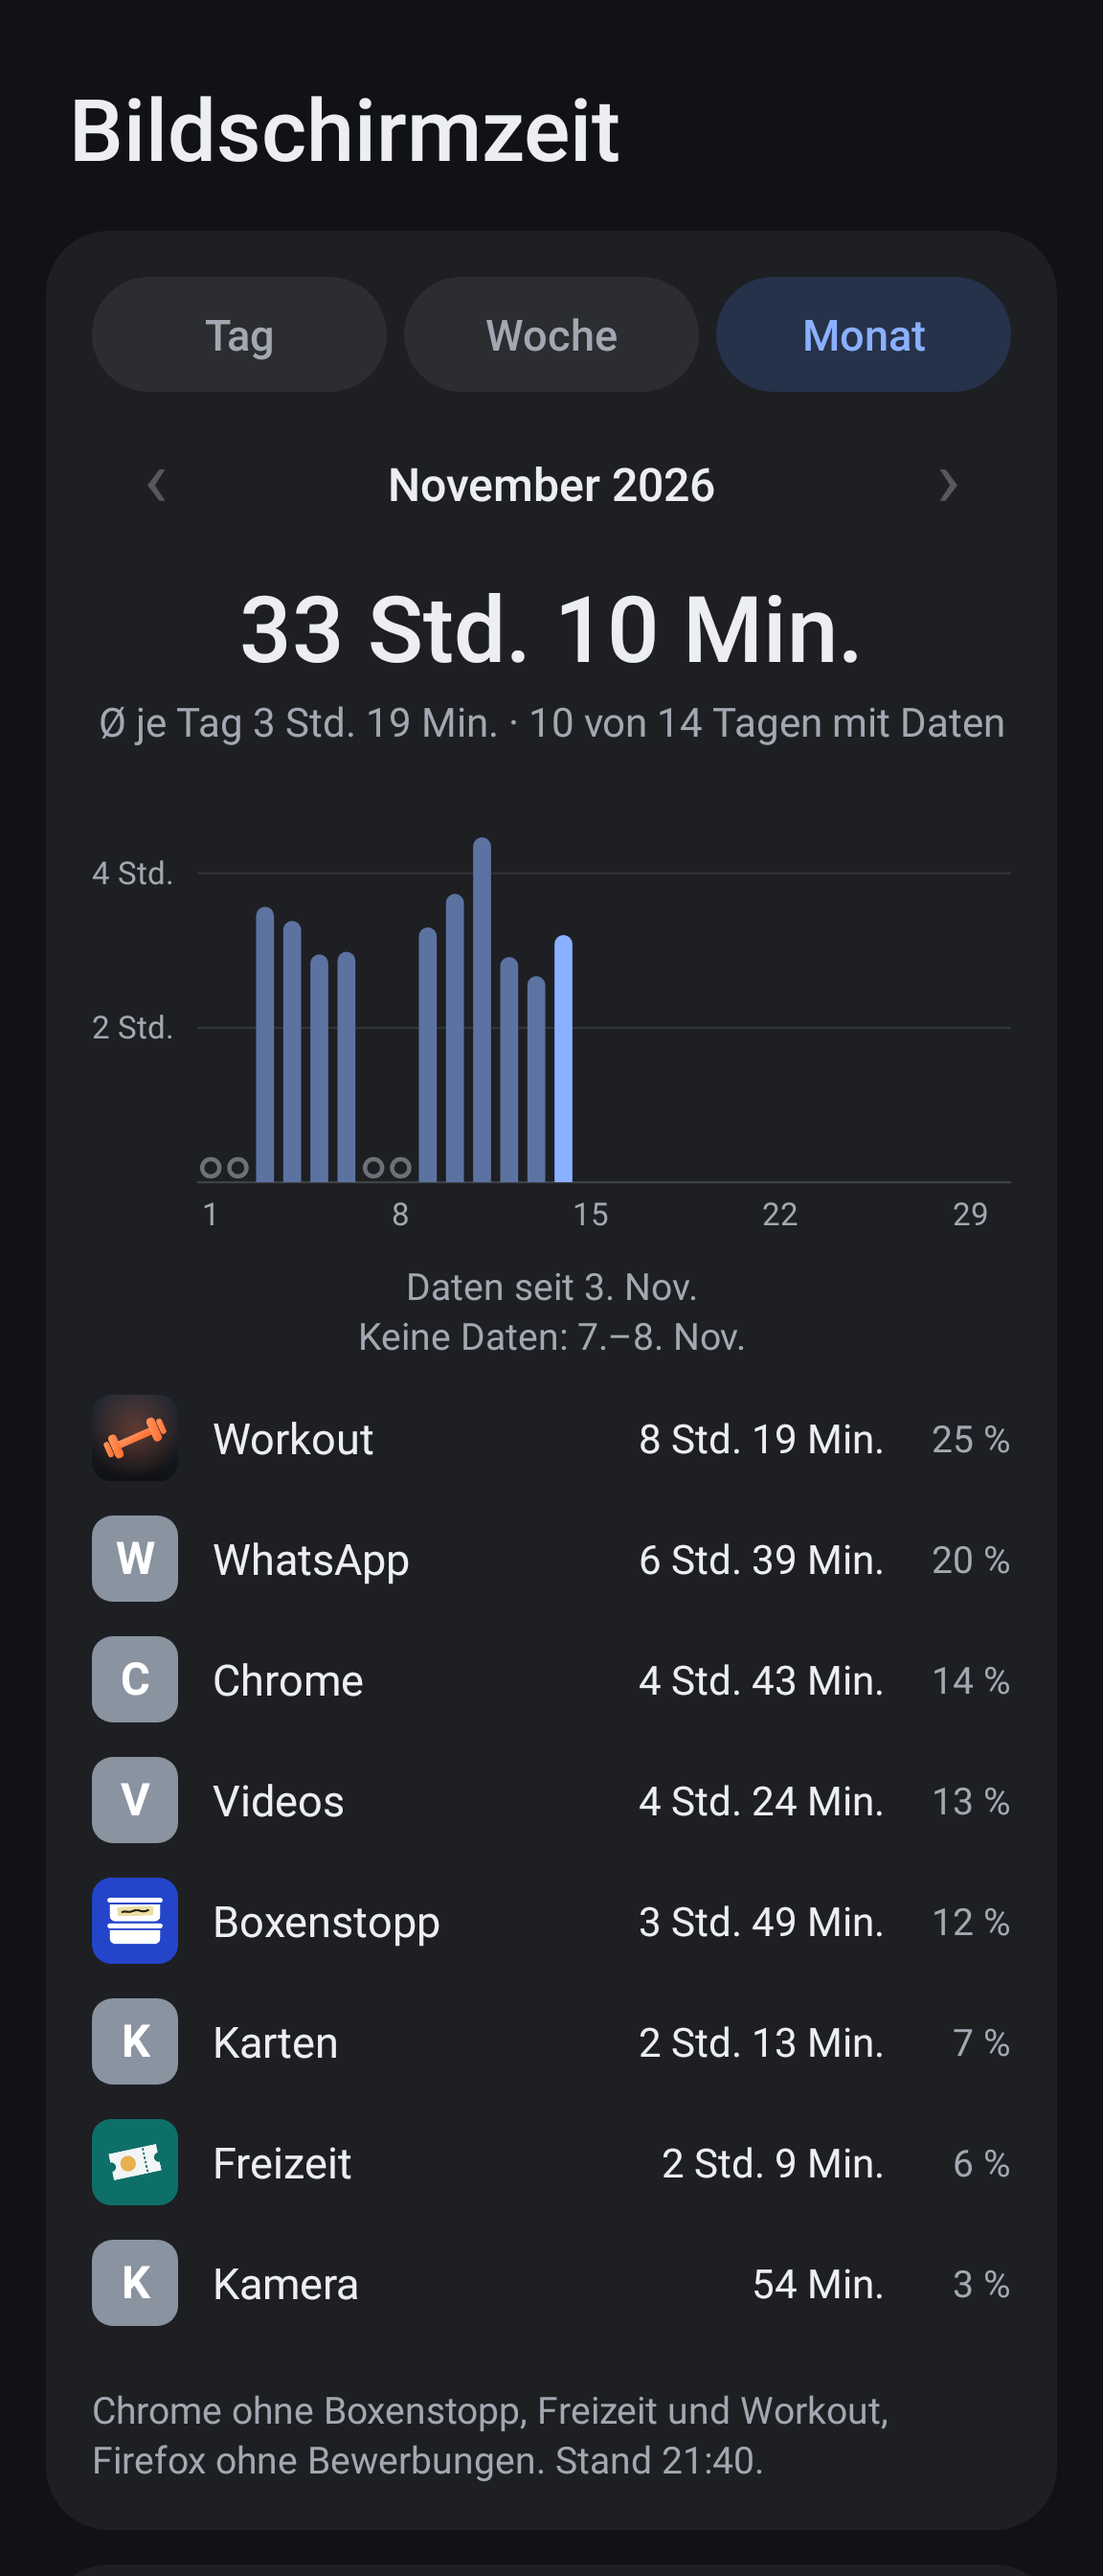
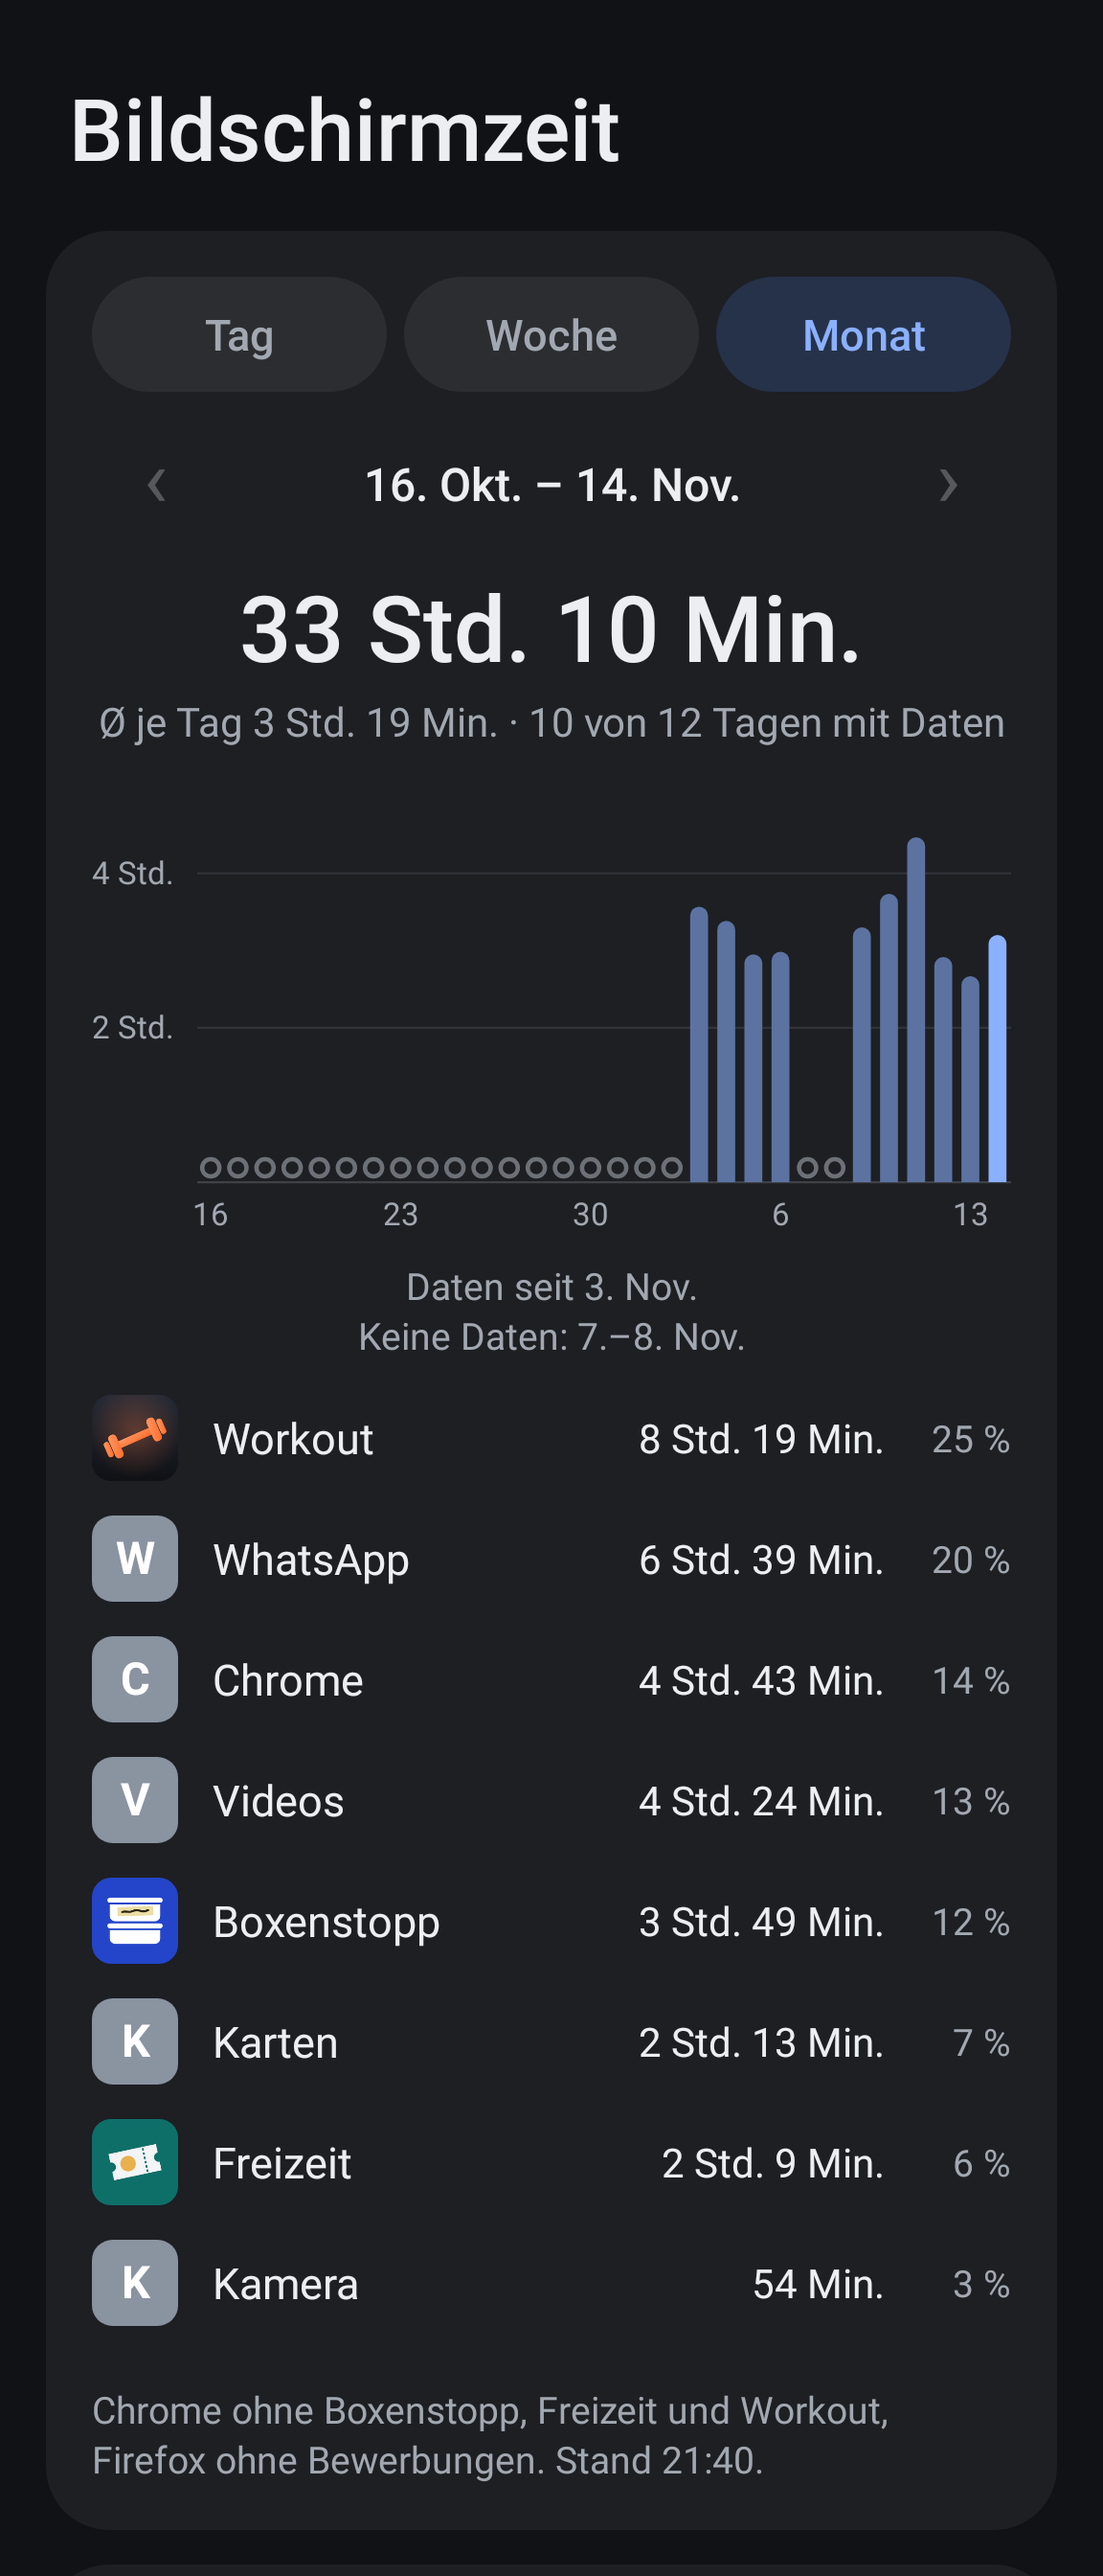
Statistik: Monat sind die letzten 30 Tage bis heute; fehlende Tage erst ab Beginn des Verlaufs
Tobi, 23.11.: „Monat genauso. Ist nicht November sondern die letzten x
tage“. Zurück springt 30 Tage, vor höchstens bis heute. „x von y Tagen mit
Daten“ zählt die Tage vor „Daten seit …“ nicht mehr als fehlend. Tests
angepasst, Monats-Bilder neu.

Claude-Session: https://claude.ai/code/session_01T7EkPJSfPQa2bVA75hcf3v

diff --git a/android/app/src/main/kotlin/de/finanzdienste/bildschirmzeit/Statistik.kt b/android/app/src/main/kotlin/de/finanzdienste/bildschirmzeit/Statistik.kt
@@ -6,16 +6,17 @@ import kotlin.math.roundToLong
 /*
  * Die Statistik der App: Tag, Woche (die letzten sieben Tage – Tobi, 23.11.:
  * „Woche bedeutet ja nicht Montag bis Sonntag sondern letzte sieben tage“),
- * Monat (der Kalendermonat) – rein,
+ * Monat (die letzten 30 Tage – „Monat genauso. Ist nicht November sondern die
+ * letzten x tage“) – rein,
  * getestet in StatistikTest. Die Zahlen kommen aus dem Verlauf (Verlauf.kt).
  * Ein Tag ohne Eintrag hat „keine Daten“ – nie 0.
  */
 
 /** Die drei Reiter oben in der App. */
-enum class Reiter(val text: String) {
-    TAG("Tag"),
-    WOCHE("Woche"),
-    MONAT("Monat"),
+enum class Reiter(val text: String, val tage: Int) {
+    TAG("Tag", 1),
+    WOCHE("Woche", 7),
+    MONAT("Monat", 30),
     ;
 
     companion object {
@@ -39,10 +40,10 @@ data class Zeitraum(val reiter: Reiter, val von: LocalDate, val bis: LocalDate) 
 
     fun vorher(): Zeitraum = um(reiter, von.minusDays(1))
 
-    /** Der nächste Zeitraum; eine Woche endet dabei höchstens `heute` (dann sind es wieder die letzten sieben Tage). */
+    /** Der nächste Zeitraum; Woche und Monat enden dabei höchstens `heute` (dann sind es wieder die letzten 7 bzw. 30 Tage). */
     fun nachher(heute: LocalDate? = null): Zeitraum = when (reiter) {
-        Reiter.WOCHE -> um(reiter, bis.plusDays(7).let { if (heute != null && it > heute) heute else it })
-        else -> um(reiter, bis.plusDays(1))
+        Reiter.TAG -> um(reiter, bis.plusDays(1))
+        else -> um(reiter, bis.plusDays(reiter.tage.toLong()).let { if (heute != null && it > heute) heute else it })
     }
 
     /** › gibt es, solange der nächste Zeitraum nicht nach heute beginnt. */
@@ -54,19 +55,11 @@ data class Zeitraum(val reiter: Reiter, val von: LocalDate, val bis: LocalDate) 
     fun enthaelt(tag: LocalDate): Boolean = tag in von..bis
 
     companion object {
-        /** Der Zeitraum dieses Reiters, der mit `tag` endet (Woche: `tag` und die sechs Tage davor) bzw. in dem `tag` liegt (Monat). */
-        fun um(reiter: Reiter, tag: LocalDate): Zeitraum = when (reiter) {
-            Reiter.TAG -> Zeitraum(reiter, tag, tag)
-            Reiter.WOCHE -> Zeitraum(reiter, tag.minusDays(6), tag)
-            Reiter.MONAT -> {
-                val erster = tag.withDayOfMonth(1)
-                Zeitraum(reiter, erster, erster.plusMonths(1).minusDays(1))
-            }
-        }
+        /** Der Zeitraum dieses Reiters, der mit `tag` endet: der Tag, die sieben bzw. 30 Tage bis `tag`. */
+        fun um(reiter: Reiter, tag: LocalDate): Zeitraum = Zeitraum(reiter, tag.minusDays(reiter.tage - 1L), tag)
     }
 }
 
-private val MONATE = listOf("Januar", "Februar", "März", "April", "Mai", "Juni", "Juli", "August", "September", "Oktober", "November", "Dezember")
 private val MONATE_KURZ = listOf("Jan.", "Feb.", "März", "Apr.", "Mai", "Juni", "Juli", "Aug.", "Sept.", "Okt.", "Nov.", "Dez.")
 private val WOCHENTAGE = listOf("Mo.", "Di.", "Mi.", "Do.", "Fr.", "Sa.", "So.")
 
@@ -77,15 +70,14 @@ fun wochentagKurz(tag: LocalDate): String = WOCHENTAGE[tag.dayOfWeek.value - 1].
 fun datumKurz(tag: LocalDate, heute: LocalDate): String =
     "${tag.dayOfMonth}. ${MONATE_KURZ[tag.monthValue - 1]}" + if (tag.year != heute.year) " ${tag.year}" else ""
 
-/** Der Titel zwischen ‹ und ›: „Heute“, „Gestern“, „Sa., 14. Nov.“, „9.–15. Nov.“, „November 2026“. */
+/** Der Titel zwischen ‹ und ›: „Heute“, „Gestern“, „Sa., 14. Nov.“, „17.–23. Nov.“, „25. Okt. – 23. Nov.“. */
 fun zeitraumTitel(z: Zeitraum, heute: LocalDate): String = when (z.reiter) {
     Reiter.TAG -> when (z.von) {
         heute -> "Heute"
         heute.minusDays(1) -> "Gestern"
         else -> "${WOCHENTAGE[z.von.dayOfWeek.value - 1]}, ${datumKurz(z.von, heute)}"
     }
-    Reiter.WOCHE -> spanne(z.von, z.bis, heute)
-    Reiter.MONAT -> "${MONATE[z.von.monthValue - 1]} ${z.von.year}"
+    Reiter.WOCHE, Reiter.MONAT -> spanne(z.von, z.bis, heute)
 }
 
 /**
@@ -123,8 +115,8 @@ data class Auswertung(
     /** Tage mit Daten. */
     val belegt: Int get() = tage.count { it.sekunden != null }
 
-    /** Tage bis heute (die noch kommenden zählen nicht). */
-    val vergangen: Int get() = tage.count { !it.zukunft }
+    /** Tage bis heute, ab dem Beginn des Verlaufs (die noch kommenden und die davor zählen nicht – „Daten seit …“ steht darunter). */
+    val vergangen: Int get() = tage.count { !it.zukunft && (datenSeit == null || it.datum >= datenSeit) }
 
     /** Ø je Tag – nur über die Tage, für die es Daten gibt. */
     val schnitt: Long? get() = if (belegt > 0) (gesamt.toDouble() / belegt).roundToLong() else null

diff --git a/android/app/src/test/kotlin/de/finanzdienste/bildschirmzeit/AppStatistikTest.kt b/android/app/src/test/kotlin/de/finanzdienste/bildschirmzeit/AppStatistikTest.kt
@@ -128,13 +128,13 @@ class AppStatistikTest {
         a.findViewById<View>(R.id.reiter_monat).performClick()
         warten()
         assertEquals("MONAT", Speicher(kontext).reiter)
-        assertEquals("November 2026", a.text(R.id.zeitraum_titel))
+        assertEquals("16. Okt. – 14. Nov.", a.text(R.id.zeitraum_titel))
         assertEquals("Daten seit 3. Nov.\nKeine Daten: 7.–8. Nov.", a.text(R.id.luecken))
-        assertTrue(a.text(R.id.schnitt).endsWith("· 10 von 14 Tagen mit Daten"))
+        assertTrue(a.text(R.id.schnitt).endsWith("· 10 von 12 Tagen mit Daten"))
         // Zurück in den Oktober: dort keine Daten, und weiter zurück geht es nicht.
         a.findViewById<View>(R.id.zurueck).performClick()
         warten()
-        assertEquals("Oktober 2026", a.text(R.id.zeitraum_titel))
+        assertEquals("16. Sept. – 15. Okt.", a.text(R.id.zeitraum_titel))
         assertEquals("keine Daten", a.text(R.id.gesamt))
         assertFalse(a.findViewById<View>(R.id.zurueck).isEnabled)
         assertTrue(a.findViewById<View>(R.id.weiter).isEnabled)
@@ -142,11 +142,11 @@ class AppStatistikTest {
         // Das Widget öffnet die App wieder: der gemerkte Reiter, der jetzige Zeitraum.
         steuerung.newIntent(ziel(Ziel.STATISTIK))
         warten()
-        assertEquals("November 2026", a.text(R.id.zeitraum_titel))
+        assertEquals("16. Okt. – 14. Nov.", a.text(R.id.zeitraum_titel))
         // Auch eine neue App (nach dem Schließen) zeigt den Monat.
         val neu = oeffnen().get()
         assertTrue(neu.findViewById<View>(R.id.reiter_monat).isSelected)
-        assertEquals("November 2026", neu.text(R.id.zeitraum_titel))
+        assertEquals("16. Okt. – 14. Nov.", neu.text(R.id.zeitraum_titel))
     }
 
     @Test
@@ -178,7 +178,7 @@ class AppStatistikTest {
         assertEquals("1.–7. Nov.", a.text(R.id.zeitraum_titel))
         assertEquals("Daten seit 3. Nov.\nKeine Daten: 7. Nov.", a.text(R.id.luecken))
         assertEquals(dauerText(summe(3, 4, 5, 6)), a.text(R.id.gesamt))
-        assertTrue(a.text(R.id.schnitt).endsWith("· 4 von 7 Tagen mit Daten"))
+        assertTrue(a.text(R.id.schnitt).endsWith("· 4 von 5 Tagen mit Daten"))
         // Vor dem 3.11. hat der Verlauf nichts: nicht weiter zurück.
         assertFalse(a.findViewById<View>(R.id.zurueck).isEnabled)
         // Vergangene Woche: kein „Stand“ von heute darunter.
@@ -310,7 +310,7 @@ class AppStatistikTest {
         // Monat und eine Woche zurück: weiter nur Workout.
         a.findViewById<View>(R.id.reiter_monat).performClick()
         warten()
-        assertEquals("November 2026", a.text(R.id.zeitraum_titel))
+        assertEquals("16. Okt. – 14. Nov.", a.text(R.id.zeitraum_titel))
         assertEquals("Workout", a.text(R.id.app_kopf_name))
         assertEquals(dauerText(wochenSumme("workout", 3, 4, 5, 6, 9, 10, 11, 12, 13, 14)), a.text(R.id.gesamt))
         a.findViewById<View>(R.id.reiter_woche).performClick()
@@ -409,7 +409,7 @@ class AppStatistikTest {
         assertEquals("Mi., 4. Nov.", a.text(R.id.zeitraum_titel))
         obersterRueckruf(a)!!.onBackInvoked()
         warten()
-        assertEquals("November 2026", a.text(R.id.zeitraum_titel))
+        assertEquals("16. Okt. – 14. Nov.", a.text(R.id.zeitraum_titel))
         assertFalse(a.isFinishing)
     }
 

diff --git a/android/app/src/test/kotlin/de/finanzdienste/bildschirmzeit/StatistikTest.kt b/android/app/src/test/kotlin/de/finanzdienste/bildschirmzeit/StatistikTest.kt
@@ -59,14 +59,17 @@ class StatistikTest {
 
     @Test
     fun monatUndTag() {
+        // Tobi, 23.11.: „Monat genauso. Ist nicht November sondern die letzten x tage“ – die letzten 30 Tage.
         val m = Zeitraum.um(Reiter.MONAT, heute)
-        assertEquals(LocalDate.of(2026, 11, 1), m.von)
-        assertEquals(LocalDate.of(2026, 11, 30), m.bis)
-        assertEquals("November 2026", zeitraumTitel(m, heute))
-        assertEquals("Oktober 2026", zeitraumTitel(m.vorher(), heute))
-        assertEquals("Dezember 2025", zeitraumTitel(Zeitraum.um(Reiter.MONAT, LocalDate.of(2026, 1, 5)).vorher(), heute))
-        assertEquals(29, Zeitraum.um(Reiter.MONAT, LocalDate.of(2028, 2, 10)).tage.size)
-        assertEquals(31, Zeitraum.um(Reiter.MONAT, LocalDate.of(2026, 3, 29)).tage.size)
+        assertEquals(LocalDate.of(2026, 10, 17), m.von)
+        assertEquals(heute, m.bis)
+        assertEquals(30, m.tage.size)
+        assertEquals("17. Okt. – 15. Nov.", zeitraumTitel(m, heute))
+        assertEquals("17. Sept. – 16. Okt.", zeitraumTitel(m.vorher(), heute))
+        assertEquals("7. Nov. – 6. Dez. 2025", zeitraumTitel(Zeitraum.um(Reiter.MONAT, LocalDate.of(2026, 1, 5)).vorher(), heute))
+        assertEquals(30, Zeitraum.um(Reiter.MONAT, LocalDate.of(2028, 3, 10)).tage.size)
+        // Vor: höchstens bis heute – dann sind es wieder die letzten 30 Tage.
+        assertEquals(m, Zeitraum.um(Reiter.MONAT, LocalDate.of(2026, 11, 1)).nachher(heute))
 
         assertEquals("Heute", zeitraumTitel(Zeitraum.um(Reiter.TAG, heute), heute))
         assertEquals("Gestern", zeitraumTitel(Zeitraum.um(Reiter.TAG, heute.minusDays(1)), heute))
@@ -156,8 +159,8 @@ class StatistikTest {
         val a = auswerten(m, verlauf, heute, seit)
         assertEquals("Daten seit 3. Nov.\nKeine Daten: 7.–8. Nov., 11. Nov.", lueckenText(a))
         assertEquals(10, a.belegt)
-        assertEquals(15, a.vergangen)
-        assertEquals("Ø je Tag 1 Std. 31 Min. · 10 von 15 Tagen mit Daten", schnittText(a))
+        assertEquals("ab dem 3.11.: die Tage davor zählen nicht als fehlend", 13, a.vergangen)
+        assertEquals("Ø je Tag 1 Std. 31 Min. · 10 von 13 Tagen mit Daten", schnittText(a))
         // Ein Tag vor dem Beginn des Verlaufs: „keine Daten“ und seit wann es welche gibt.
         val tag = auswerten(Zeitraum.um(Reiter.TAG, LocalDate.of(2026, 11, 1)), verlauf, heute, seit)
         assertEquals("keine Daten", gesamtText(tag))

diff --git a/android/app/src/main/kotlin/de/finanzdienste/bildschirmzeit/Balken.kt b/android/app/src/main/kotlin/de/finanzdienste/bildschirmzeit/Balken.kt
@@ -125,7 +125,7 @@ class Balken @JvmOverloads constructor(context: Context, attrs: AttributeSet? = 
         }
     }
 
-    /** Woche: jeder Tag („Mo“); Monat: der 1., 8., 15., 22. und 29. */
+    /** Woche: jeder Tag („Mo“); Monat: jeder siebte Tag ab dem ersten des Zeitraums („25.“, „1.“, …). */
     private fun beschriftung(i: Int, tag: LocalDate): String? = when {
         werte.size <= 7 -> wochentagKurz(tag)
         i % 7 == 0 -> tag.dayOfMonth.toString()

diff --git a/android/app/src/test/kotlin/de/finanzdienste/bildschirmzeit/WidgetOeffnetAppTest.kt b/android/app/src/test/kotlin/de/finanzdienste/bildschirmzeit/WidgetOeffnetAppTest.kt
@@ -136,7 +136,7 @@ class WidgetOeffnetAppTest {
         a.zeigen(ergebnis)
         warten()
         assertTrue(a.findViewById<View>(R.id.reiter_monat).isSelected)
-        assertEquals("November 2026", a.text(R.id.zeitraum_titel))
+        assertEquals("16. Okt. – 14. Nov.", a.text(R.id.zeitraum_titel))
         assertEquals(R.id.statistik_karte, a.reihe()[1])
     }
 

diff --git a/README.md b/README.md
@@ -65,7 +65,7 @@ der Statistik, mit dem Weg über die eingeschränkte Einstellung).
   App“). Offen gelassen, also entschieden: beim ersten Mal der Reiter Woche,
   danach der zuletzt gewählte. Die Woche war erst Montag bis Sonntag; Tobi,
   23.11.: „Woche bedeutet ja nicht Montag bis Sonntag sondern letzte sieben
-  tage“ – seitdem die sieben Tage bis heute.
+  tage“ – seitdem die sieben Tage bis heute, und der Monat die 30 Tage bis heute („Monat genauso“).
 - „Bei Firefox bin ich viel auf Youtube. Kann man sich die größten Webseiten
   als einzelnen Punkt auflisten lassen?“ (15.11.) – seit v9 freiwillig über
   eine Bedienungshilfe (unten „Webseiten in Firefox einzeln“). Entschieden:
@@ -711,7 +711,7 @@ neu – Antippen bringt also weiter frische Zahlen.
   Monatswechsel „27. Okt. – 2. Nov.“, übers Jahr „27. Dez. – 2. Jan. 2027“ –
   die Jahreszahl einmal, hinten; mit beiden passte der Titel bei
   größerer Schrift nicht zwischen ‹ und ›, und passt er trotzdem nicht, wird
-  er kleiner statt umbrochen), Monat der Kalendermonat („November 2026“), Tag
+  er kleiner statt umbrochen), Monat die 30 Tage bis heute („25. Okt. – 23. Nov.“, Tobi, 23.11.: „Monat genauso. Ist nicht November sondern die letzten x tage“), Tag
   „Heute“, „Gestern“, „Sa., 14. Nov.“. Gemerkt wird der zuletzt von Hand
   gewählte Reiter; das Widget öffnet ihn mit dem jetzigen Zeitraum, beim
   ersten Mal „Woche“.
@@ -1690,6 +1690,9 @@ spricht mit dem echten Supabase oder GitHub (`Netz.gesperrt`).
   Prüfungen grün; geändert sind nur die App-Bilder (Woche 8.–14. Nov.).
 - 23.11.2026: Ältere Anrufe nachholen und Platzhalter „Job …“ (Abschnitt
   „Anrufer erkennen“), nächstes Release. 268 Prüfungen grün.
+- 23.11.2026: Monat = die 30 Tage bis heute statt Kalendermonat; „x von y
+  Tagen mit Daten“ zählt erst ab „Daten seit …“ (die Tage davor stehen schon
+  dort). 268 Prüfungen grün; geändert sind nur die Monats-Bilder.
 - Noch nicht auf dem S24 ausprobiert: Größen des Startbildschirms, Akku-
   Verhalten von One UI (ob es die App trotz Widget schlafen legt), ob
   Chrome den Verbinden-Link in der installierten Web-App oder als Tab
